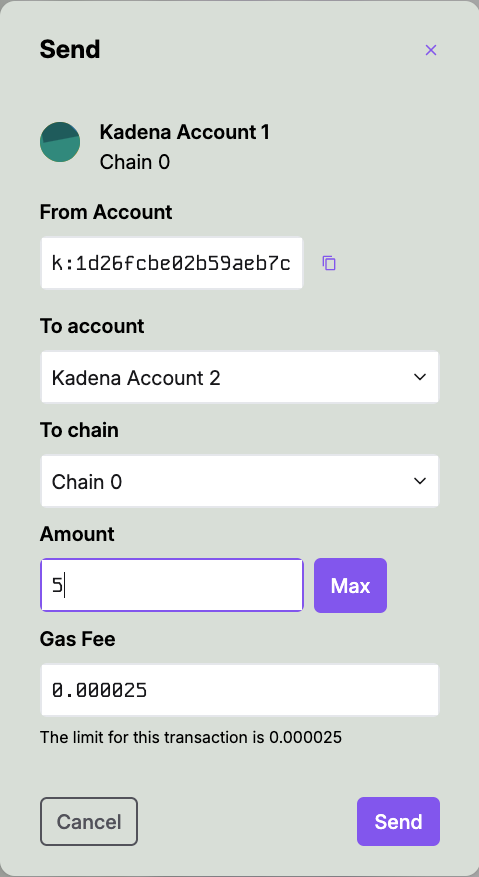
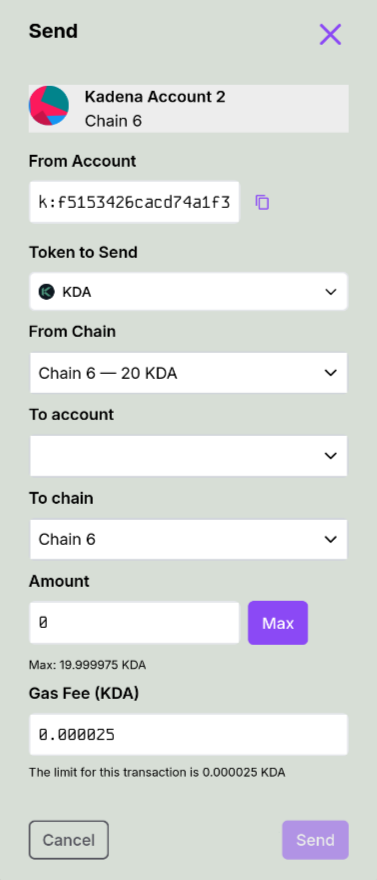
docs: Custom token support

diff --git a/src/user-guide.md b/src/user-guide.md
@@ -2,7 +2,7 @@
 
 > **Note:** The Kadena Snap is only available in the MetaMask browser extension. Users must switch to desktop to interact with the Kadena Snap.
 
-This guide walks you through the steps to connect your MetaMask wallet to the Kadena Snap, install it, approve permissions, and perform basic operations like switching networks and sending $KDA.
+This guide walks you through the steps to connect your MetaMask wallet to the Kadena Snap, install it, approve permissions, and perform basic operations like switching networks and sending tokens.
 
 ---
 
@@ -82,17 +82,18 @@ Once funded, you’ll see a screen like this while a transaction is being proces
 
 ---
 
-## 8. Sending KDA
+## 8. Sending Tokens
 
-After funding your account, you can send $KDA to other accounts or perform cross-chain transfers using the Snap interface.
+After funding your account, you can send tokens (KDA and other supported assets) to other accounts and, where supported, perform cross-chain transfers using the Snap interface.
 
-![Send KDA](./images/send-kda.png)
+![Send Tokens](./images/send-kda.png)
 
 - **From Account**: Your Kadena address
+- **Token**: Choose the asset to send (KDA by default)
 - **To account**: Recipient address
-- **To chain**: Select destination chain (e.g., Chain 1–20)
-- **Amount**: Amount of $KDA
-- **Gas Fee**: Usually prefilled
+- **To chain**: Select destination chain (e.g., Chain 1–20; only for tokens that support cross‑chain)
+- **Amount**: Token amount to send
+- **Gas Fee**: Usually prefilled (fees are paid in KDA)
 
 Click **Send** to broadcast your transaction.
 

diff --git a/src/overview.md b/src/overview.md
@@ -25,14 +25,14 @@ Here’s what you can do with the Snap-enabled dApp:
 - **Create a Kadena Account**:  
   Click “+ Add Account” to generate a new Kadena account managed by the Snap.
 
-- **Send and Receive $KDA**:  
-  Use the dApp’s interface to send and receive KDA tokens across any of Kadena’s 20 chains.
+- **Send and Receive Tokens**:  
+  Use the dApp’s interface to send and receive Kadena tokens (including KDA) across supported chains.
 
 - **Sign Transactions Securely**:  
   When a dApp sends a transaction request, MetaMask will trigger a secure popup for approval.
 
 - **Perform Cross-Chain Transfers**:  
-  The Snap abstracts the complexity of transferring KDA between Kadena’s braided chains.
+  The Snap abstracts the complexity of transferring supported tokens (KDA included) between Kadena’s braided chains.
 
 - **Buy $KDA**:  
   Integrated onramp support (e.g., Simplex) allows you to purchase KDA within the dApp.
@@ -47,6 +47,6 @@ Here’s what you can do with the Snap-enabled dApp:
   The dApp can show balances and recent transactions using Snap-stored accounts.
 
 > Learn More
-> - Kadena Snap NPM Package: https://www.npmjs.com/package/@mindsend/kadena-snap  
+> - [Kadena Snap NPM Package](https://www.npmjs.com/package/@mindsend/kadena-snap)  
 > - Kadena Snap Audit Report: [View PDF](https://veridise.com/wp-content/uploads/2024/10/VAR_Kadena_240909_kadena_snap_V3.pdf)  
 > - MetaMask Snap Docs: [docs.metamask.io/guide/snaps.html](https://docs.metamask.io/guide/snaps.html)

diff --git a/src/user-guide/add-token.md b/src/user-guide/add-token.md
@@ -1,0 +1,53 @@
+# How to Add Custom Tokens
+
+This guide explains how to add custom tokens to your wallet interface.
+
+---
+
+## Step 1 — Open the Token Manager
+
+Click on the three‑dot menu in the wallet and select Manage Tokens.
+
+![Manage Tokens](../images/mng-tok.png)
+
+---
+
+## Step 2 — View the Token List
+
+You will see the list of default tokens available in the wallet. At the bottom of this screen, click Add Custom Token.
+
+![All Tokens](../images/all-tokens.png)
+
+---
+
+## Step 3 — Open the Add Token Dialog
+
+A dialog will appear asking you to provide details about your token.
+
+![Add Token Dialog](../images/add-token-dialog.png)
+
+---
+
+## Step 4 — Fill in Token Information
+
+Enter the following information:
+- Token Symbol (e.g., `MYTOKEN`)
+- Contract Address (the token contract’s unique identifier)
+- Token Name (readable name for the token)
+- Decimals (the token’s precision, e.g., 12)
+
+After filling in the fields, click Add Token.
+
+Example (as shown below):
+- Token Symbol: `toK`
+- Contract Address: `n_b80552a0994aabe4bdea79388c922c09d6a7bd35.tok`
+- Token Name: `toKen`
+- Decimals: `12`
+
+![Example Token Filled](../images/example-token-filled.png)
+
+---
+
+## Done!
+
+Your custom token will now appear in the wallet’s token list and can be selected when sending tokens.

diff --git a/src/user-guide/send-kda.md b/src/user-guide/send-kda.md
@@ -1,13 +1,14 @@
-# Sending KDA
+# Sending Tokens
 
-After funding your account, you can send $KDA to other accounts or perform native cross-chain transfers using the snaK interface.
+After funding your account, you can send tokens (KDA and other supported Kadena tokens) to other accounts and, where supported, perform native cross-chain transfers using the snaK interface. If your token isn’t listed by default, first add it via [Add Custom Tokens](./add-token.md).
 
-![Send KDA](../images/send-kda.png)
+![Send Tokens](../images/send-kda.png)
 
 - **From Account**: Your Kadena address  
+- **Token**: Choose the asset to send (KDA by default)  
 - **To account**: Recipient address  
-- **To chain**: Select destination chain (e.g., Chain 1–20)  
-- **Amount**: Amount of $KDA  
-- **Gas Fee**: Usually prefilled
+- **To chain**: Select destination chain (e.g., Chain 1–20; only for tokens that support cross‑chain)  
+- **Amount**: Token amount to send  
+- **Gas Fee**: Usually prefilled (fees are paid in KDA)
 
 Click **Send** to broadcast your transaction.

diff --git a/src/intro.md b/src/intro.md
@@ -2,7 +2,7 @@
 
 MetaMask is a popular Ethereum wallet and browser extension that developers can integrate into a variety of third-party applications. MetaMask Snaps is an open-source solution to enhance MetaMask’s functionalities beyond its native capabilities.
 
-**snaK** enables users to interact directly with the Kadena blockchain without relying on traditional JSON-RPC endpoints, offering Kadena-native functionalities like sending $KDA, performing cross-chain transfers, and retrieving account information. Initially developed by the Kadena Community, it's now maintained by Mindsend Datatech.
+**snaK** enables users to interact directly with the Kadena blockchain without relying on traditional JSON-RPC endpoints, offering Kadena-native functionalities like sending tokens (KDA and others), performing cross-chain transfers, and retrieving account information. Initially developed by the Kadena Community, it's now maintained by Mindsend Datatech.
 
 ## What is a Snap?
 

diff --git a/src/user-guide/faucet.md b/src/user-guide/faucet.md
@@ -11,7 +11,19 @@ To perform any transaction, your new account needs \$KDA tokens.
 
   * Centralized exchanges (CEX)
   * Decentralized exchanges (DEX)
-  * Payment providers such as Simplex
+  * Payment providers such as Transak and Simplex
+
+## Testnet Funding (Faucet)
+
+This section applies to the Kadena testnet only.
+
+1) Copy your Kadena address from your wallet (it looks like `k:...`).
+
+   ![Copy Your Address](../images/faucet-copy-address.png)
+
+2) On the testnet faucet, paste your:
+   - Account: `k:address`
+   - Public key: `address` (same as above, but without the `k:` prefix)
 
 Once funded, you’ll see a screen like this while a transaction is being processed:
 

diff --git a/src/user-guide/ledger.md b/src/user-guide/ledger.md
@@ -88,7 +88,7 @@ If it's your first time connecting a Ledger:
 ## 5. You're Done
 
 Your Ledger account is now added and ready to use! 🎉  
-You can now sign and send transactions from this account as described in other guides (e.g., [Send KDA](./send-kda.md)).
+You can now sign and send transactions from this account as described in other guides (e.g., [Send Tokens](./send-kda.md)).
 
 ---
 
@@ -134,4 +134,3 @@ This includes installation instructions and general advice for managing KDA safe
   [https://www.ledger.com/start](https://www.ledger.com/start)
 
 ---
-

diff --git a/src/SUMMARY.md b/src/SUMMARY.md
@@ -16,7 +16,8 @@
   - [Fund Your Account via Testnet Faucet](user-guide/faucet.md)
   - [Using Ledger](user-guide/ledger.md)
   - [Switching Networks](user-guide/switch-network.md)
-  - [Sending KDA](user-guide/send-kda.md)
+  - [Sending Tokens](user-guide/send-kda.md)
+  - [Add Custom Tokens](user-guide/add-token.md)
   - [Signing Transactions](user-guide/sign-tx.md)
   - [Adding Custom Networks](user-guide/add-network.md)
 - [SDK Quickstart](dev-kickstart.md)
